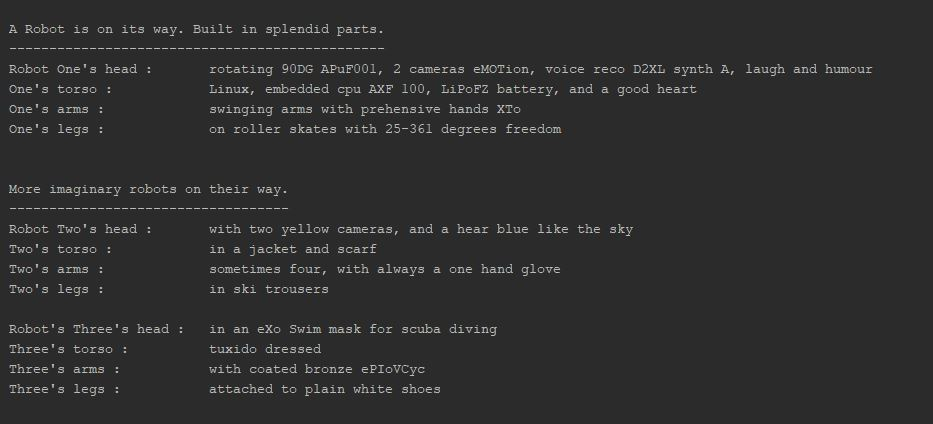
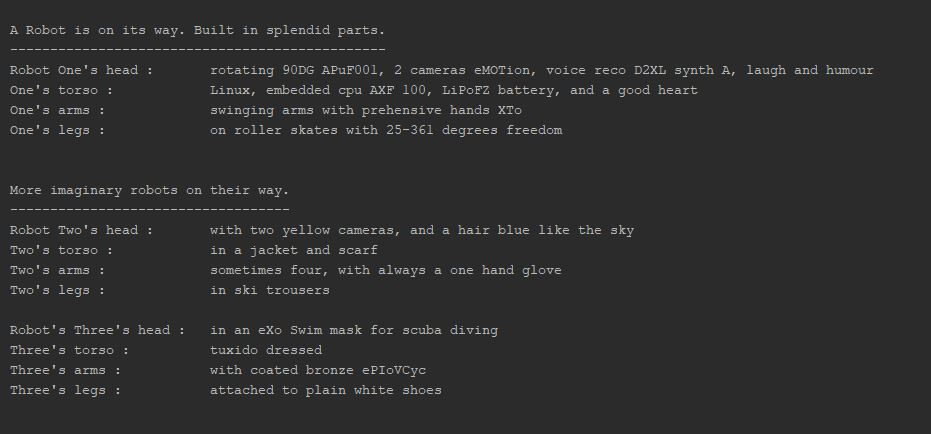
update

diff --git a/InRobotStyle/SecondRobotBuilderImpl.java b/InRobotStyle/SecondRobotBuilderImpl.java
@@ -8,7 +8,7 @@ public class SecondRobotBuilderImpl implements RobotBuilder {
 
     @Override
     public void buildRobotHead() {
-        robot.setRobotHead("with two yellow cameras, and a hear blue like the sky");
+        robot.setRobotHead("with two yellow cameras, and a hair blue like the sky");
     }
 
     @Override
